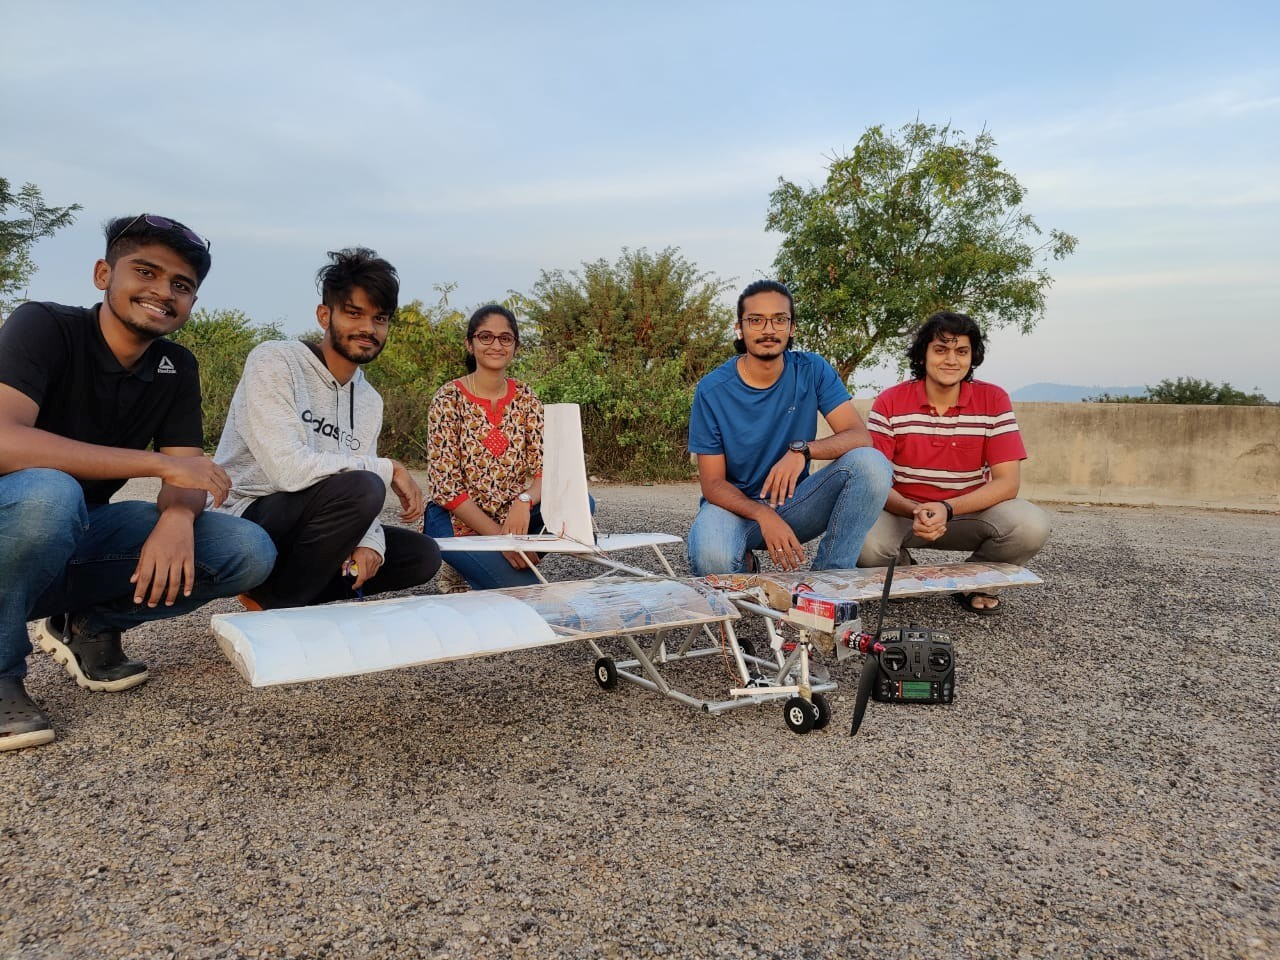
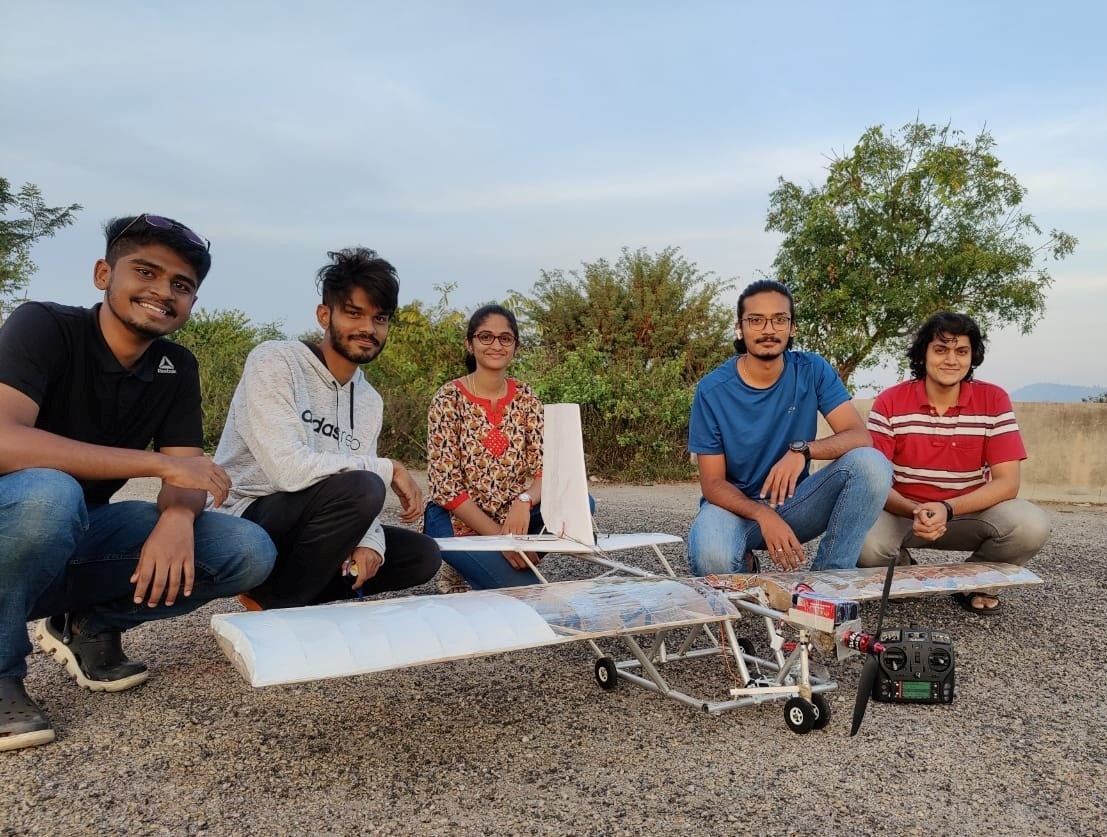
update

diff --git a/projects/SAE_ADC.html b/projects/SAE_ADC.html
@@ -410,44 +410,12 @@
                     </div>
 
                     <!-- Competition Gallery -->
-                    <div class="row" style="margin-top: 30px;">
-                        <div class="col-md-12 animate-box">
-                            <h3>Competition Gallery</h3>
-                            
-                            <!-- Row 1: Two side-by-side images (your perfect first two) -->
-                            <div class="row" style="margin-bottom: 30px;">
-                                <div class="col-md-6">
-                                    <img src="../images/SAE_ADC/Group1.jpg" alt="Team at Chitkara University event" class="img-responsive" style="margin-bottom: 10px;">
-                                    <p style="font-size: 14px; color: #666; text-align: center;">Pit</p>
-                                </div>
-                                <div class="col-md-6">
-                                    <img src="../images/SAE_Baja_20/comp_group.jpg" alt="Team group photo" class="img-responsive" style="margin-bottom: 10px;">
-                                    <p style="font-size: 14px; color: #666; text-align: center;">Junior Team</p>
-                                </div>
-                            </div>
-                            
-                            <!-- Row 2: One full-width wider image (your third) -->
-                            <div class="row" style="margin-bottom: 30px;">
-                                <div class="col-md-12">
-                                    <img src="../images/SAE_Baja_20/comp2.jpg" alt="ATV in action or wide view" class="img-responsive" style="margin-bottom: 21px; width: 100%;">
-                                    <p style="font-size: 14px; color: #666; text-align: center;">Post Race</p>
-                                </div>
-                            </div>
-                            
-                            <!-- Row 3: Two side-by-side images (your fourth and fifth) -->
-                            <div class="row">
-                                <div class="col-md-6">
-                                    <img src="../images/SAE_Baja_20/comp3.jpg" alt="Vehicle detail or fabrication" class="img-responsive" style="margin-bottom: 10px;">
-                                    <p style="font-size: 14px; color: #666; text-align: center;">Post Race</p>
-                                </div>
-                                <div class="col-md-6">
-                                    <img src="../images/SAE_Baja_20/comp4.jpg" alt="Team in action" class="img-responsive" style="margin-bottom: 10px;">
-                                    <p style="font-size: 14px; color: #666; text-align: center;">Post Race</p>
-                                </div>
-                            </div>
+                     <div class="row" style="margin-bottom: 30px;">
+                        <div class="col-md-12">
+                            <img src="../iimages/SAE_ADC/Group1.jpg" alt="ATV in action or wide view" class="img-responsive" style="margin-bottom: 21px; width: 100%;">
+                            <p style="font-size: 14px; color: #666; text-align: center;">Team Swift 7</p>
                         </div>
                     </div>
-                
 
                     <!-- Acknowledgments -->
                     <div class="row" style="margin-top: 40px;">
@@ -455,7 +423,7 @@
                             <h3>Acknowledgments</h3>
                             <ul>
                                 <li>Faculty Advisor: Prof. Arun C Dixit, Department of Mechanical Engineering, Vidyavardhaka College of Engineering, Mysuru, for guidance and support.</li>
-                                <li>Team members Vignesh Kumar R, Pravalika R, Yashas J, Sahil S, Vivek C for collaboration.</li>
+                                <li>Team members Vignesh Kumar R, Pravalika R, Yashas J, Rohith R, Sahil S, Vivek C for collaboration.</li>
                                 <li>Mr. Chandrakanth Sharma, Rangsons Aerospace, for his constant support and guidance in the overall design to fabrication & testing process.</li>
                                 <li>Mr. Rakshith S, for his constant support and guidance in the fabrication & testing process.</li>
                             </ul>
